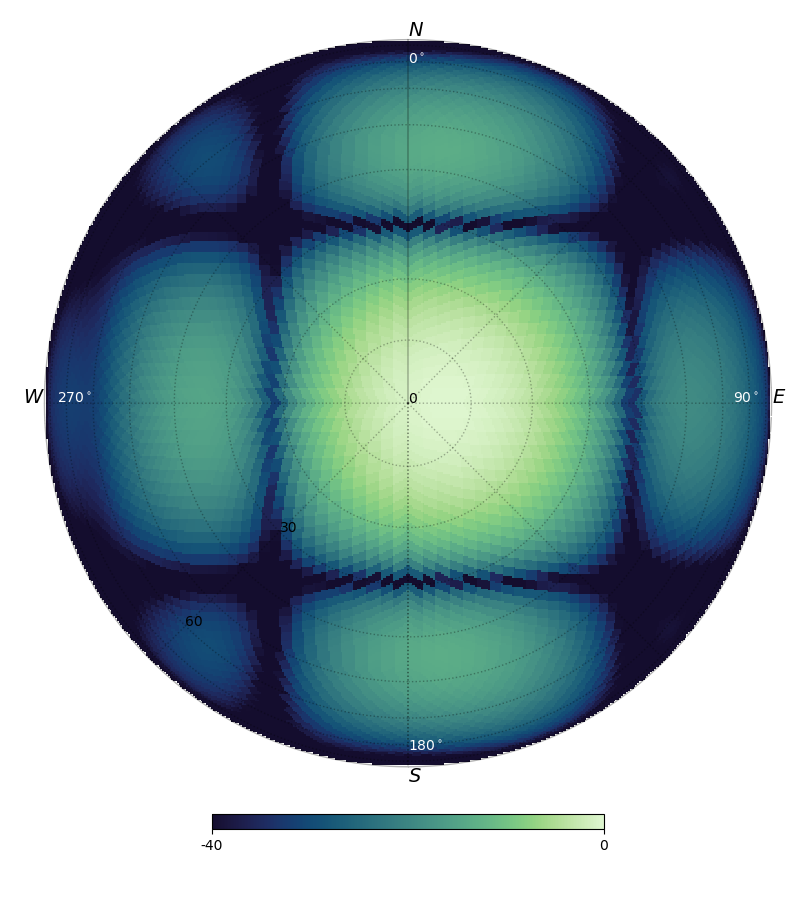
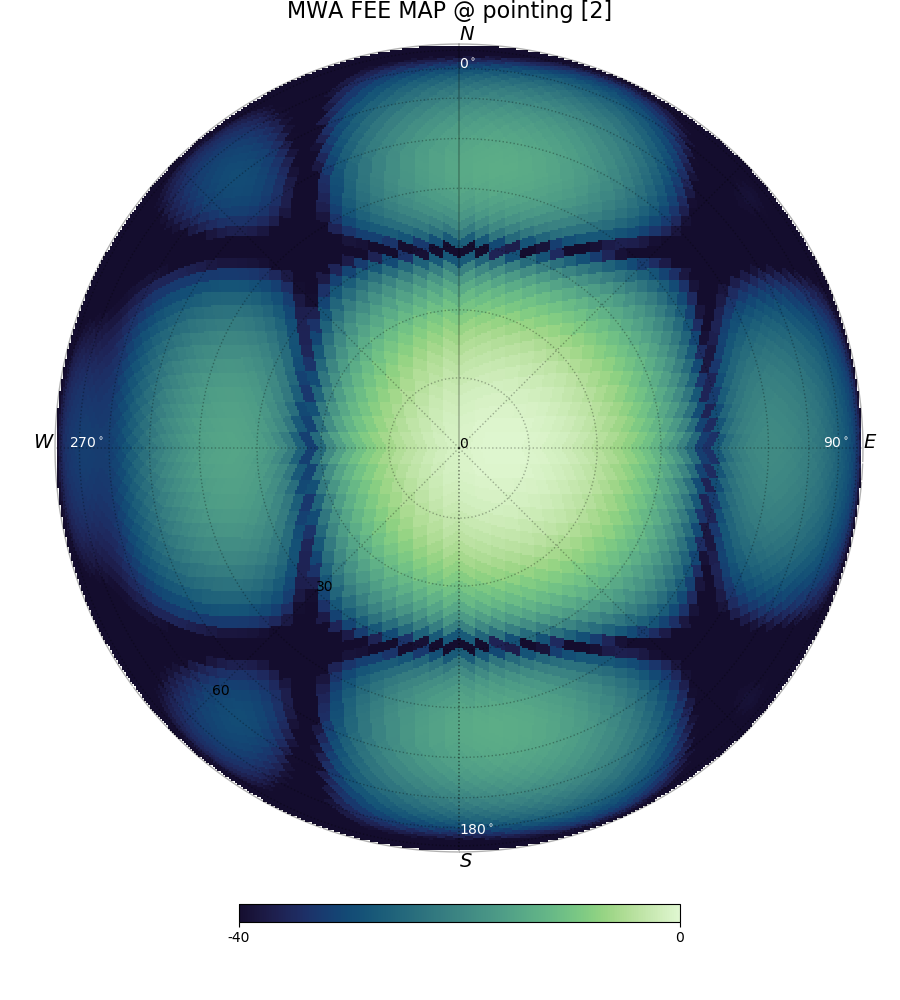
Added plot titles

diff --git a/code/tile_analysis/mwa_fee_beam.py b/code/tile_analysis/mwa_fee_beam.py
@@ -66,6 +66,7 @@ if __name__=='__main__':
     from pathlib import Path
     sys.path.append('../decode_rf_data')
     from colormap import jade
+    import matplotlib.pyplot as plt
     
     # Custom spectral colormap
     jade, _ = jade()
@@ -118,8 +119,8 @@ if __name__=='__main__':
         normed_beam = decibel_beam - decibel_beam.max()
         fee_beam[p] = normed_beam
       
-        plt.figure(figsize=(8,9))
-        plt.tight_layout()
+        fig = plt.figure(figsize=(9,10))
+        fig.suptitle(f'MWA FEE MAP @ pointing [{p}]', fontsize=16, y=1.0)
         plot_healpix(data_map=normed_beam, sub=(1,1,1), cmap=jade, vmin=-40, vmax=0)
         plt.savefig(f'{out_dir}/mwa_fee_beam_{p}.png')
         plt.close()
